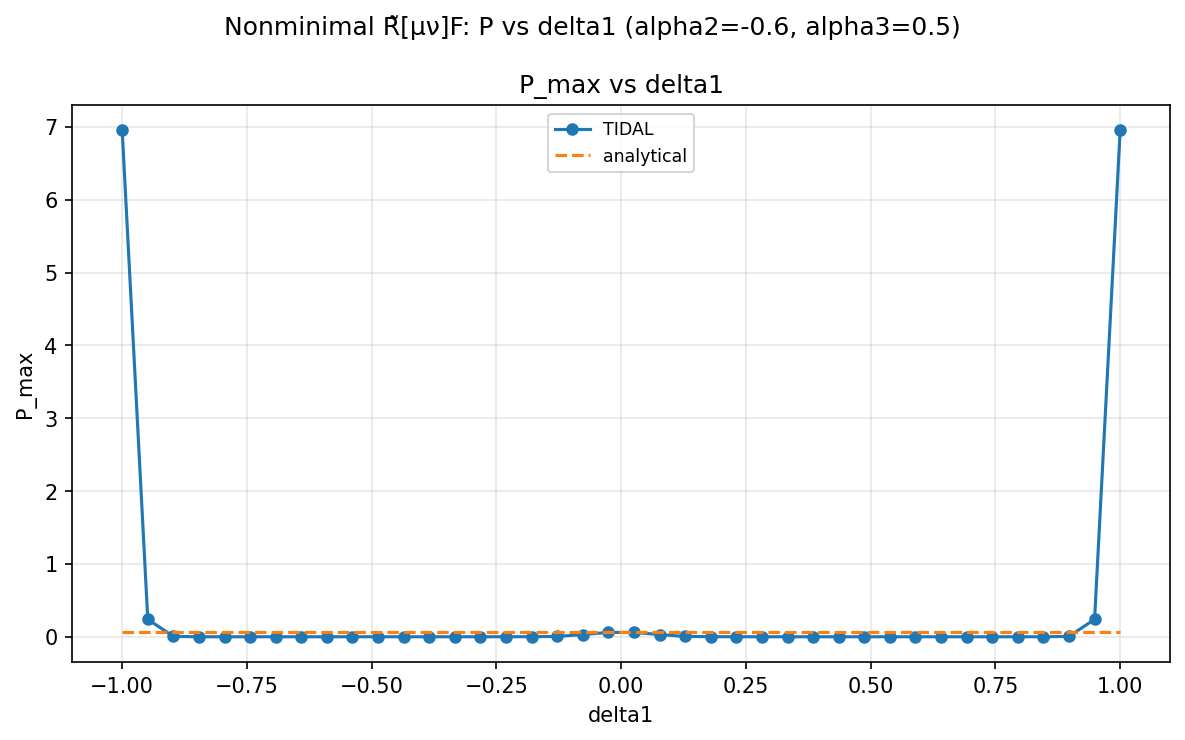
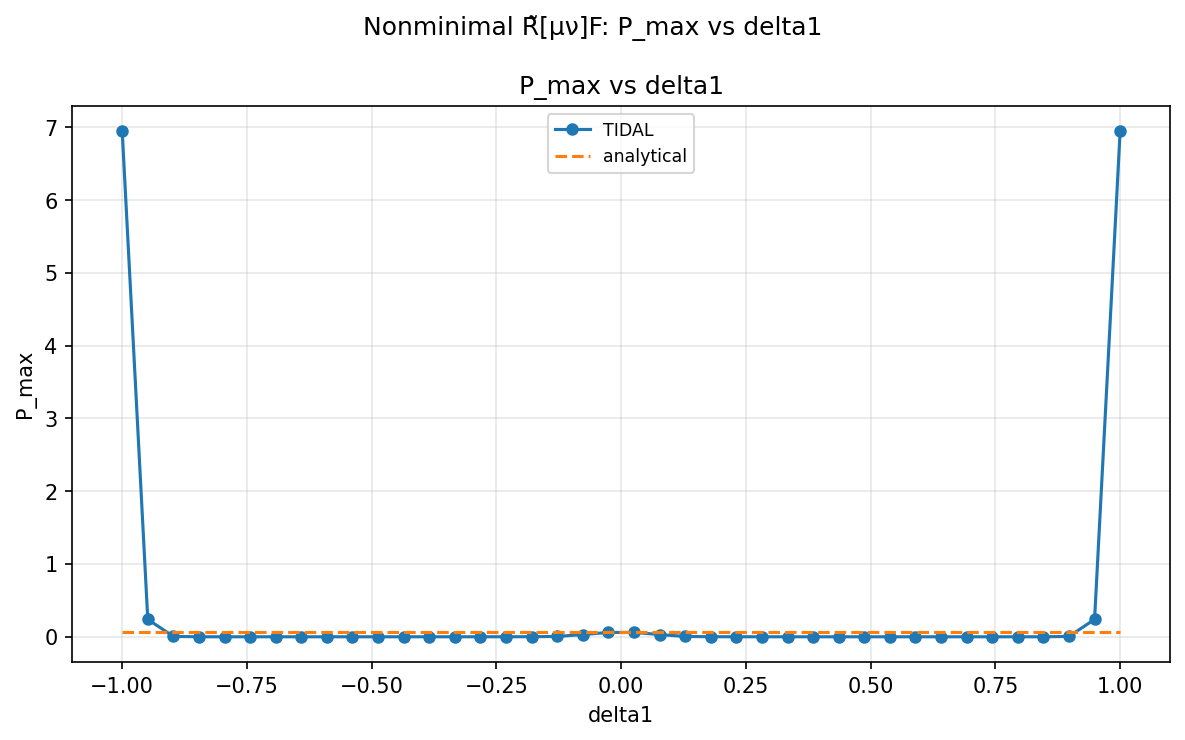
chore: bump version to 0.25.19

Changed region(s): [[0.1873, 0.0, 0.8118, 0.0622], [0.4371, 0.0932, 0.6245, 0.1865]]

diff --git a/docs/ROADMAP.md b/docs/ROADMAP.md
@@ -288,7 +288,7 @@ This project follows [Semantic Versioning](https://semver.org/):
 - **MINOR** (0.X.0): New features (3+1D examples, JSON schema extensions)
 - **PATCH** (0.0.X): Bug fixes, documentation improvements
 
-**Current Version:** 0.25.18
+**Current Version:** 0.25.19
 **Previous Milestones:** 0.3.0 delivered Phase 3 + CLI + rename to TIDAL; 0.4.0 delivered solver migration + gauge fixing + background fields + adaptive timestepping + constraint pre-solve; 0.5.0 delivered parameter sweep framework (Phase C) with 12 measurements, sensitivity analysis, and advanced visualization
 **Next Major Release (1.0.0):** Phase D (Gertsenshtein example) + Wolfram CI
 

diff --git a/docs/NEXT_PHASES.md b/docs/NEXT_PHASES.md
@@ -3,7 +3,7 @@
 **Created:** February 2026
 **Last Updated:** March 2026
 **Status:** Phases A, B, C, D, E (FFT), F, J complete; Torsion (PGT) complete (v0.18.0); Torsion-Gertsenshtein investigated (v0.22.8); Phases G–I planned
-**Version:** 0.25.18 | **Tests:** 1,700 collected | **Examples:** 20 working (1+1D to 3+1D)
+**Version:** 0.25.19 | **Tests:** 1,700 collected | **Examples:** 20 working (1+1D to 3+1D)
 
 ## Context
 
